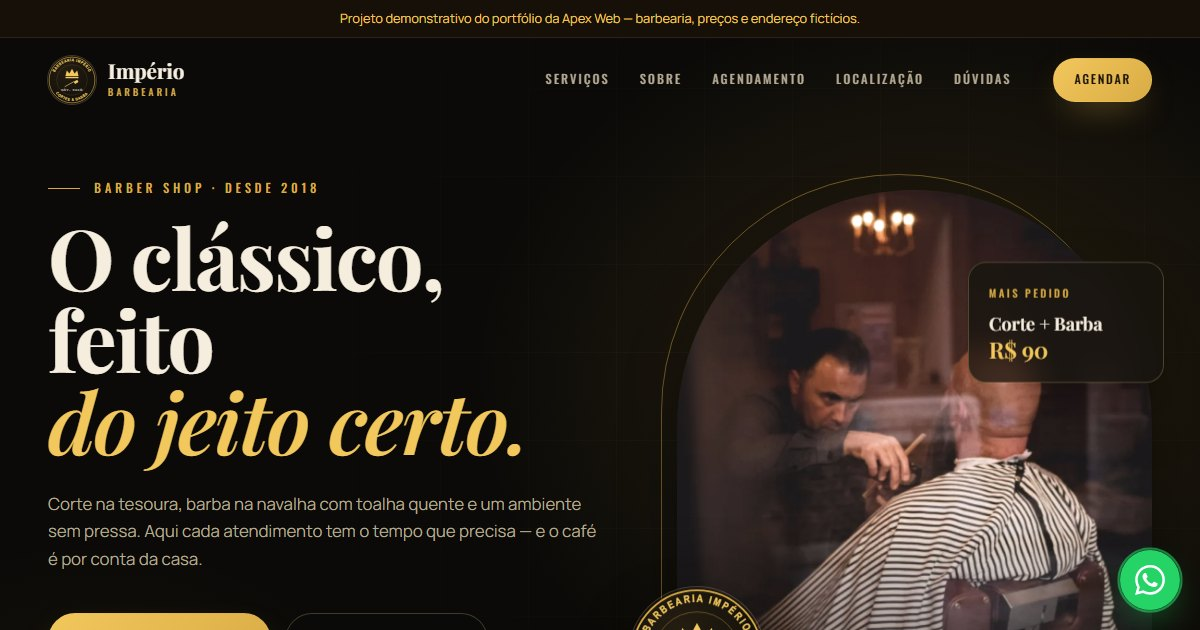
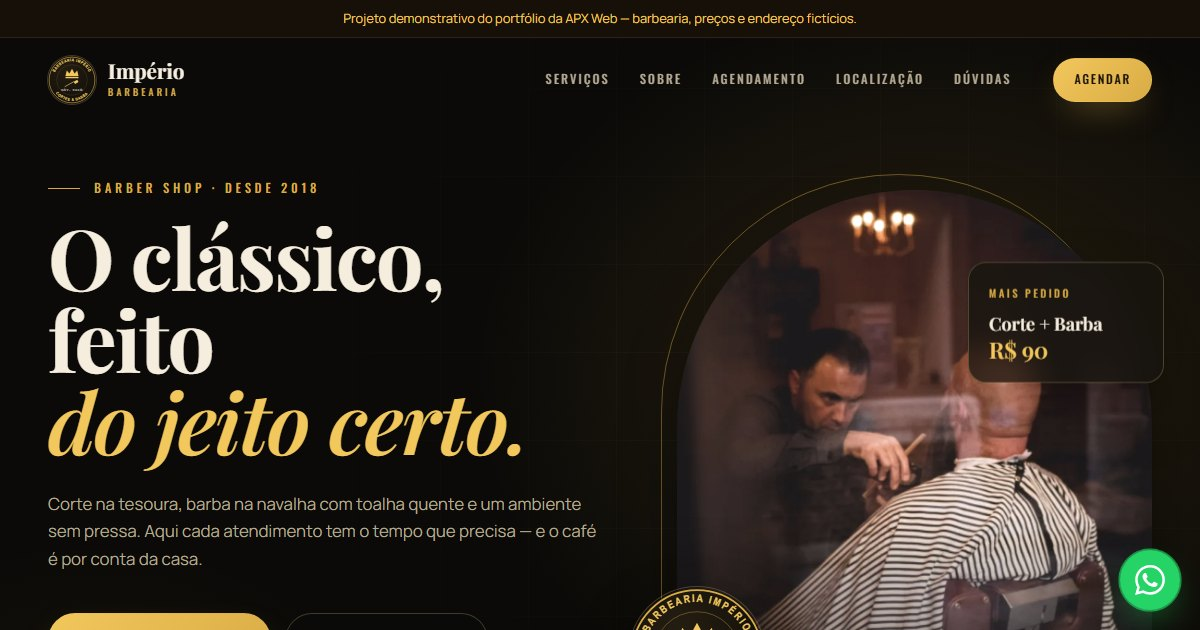
Renomear marca para APX Web e remover fundo quadriculado do topo
Troca Apex Web por APX Web nos textos do site e dos projetos do
portfolio, e no texto dentro do logo do topo e da imagem de
compartilhamento (letras originais reaproveitadas, so sem o E).
Remove o grid-overlay do hero.

Changed region(s): [[0.2775, 0.0, 0.7092, 0.0603]]

diff --git a/index.html b/index.html
@@ -3,17 +3,17 @@
 <head>
 <meta charset="UTF-8">
 <meta name="viewport" content="width=device-width, initial-scale=1.0">
-<title>Apex Web — Ideias que constroem o seu futuro</title>
-<meta name="description" content="Apex Web cria sites profissionais para pequenas empresas: agendamento, plataformas P2P, gestão de dados e catálogos.">
+<title>APX Web — Ideias que constroem o seu futuro</title>
+<meta name="description" content="APX Web cria sites profissionais para pequenas empresas: agendamento, plataformas P2P, gestão de dados e catálogos.">
 <link rel="icon" type="image/png" sizes="32x32" href="assets/img/favicon-32.png">
 <link rel="icon" type="image/png" sizes="16x16" href="assets/img/favicon-16.png">
 <link rel="apple-touch-icon" href="assets/img/apple-touch-icon.png">
 <meta property="og:type" content="website">
-<meta property="og:title" content="Apex Web — Ideias que constroem o seu futuro">
+<meta property="og:title" content="APX Web — Ideias que constroem o seu futuro">
 <meta property="og:description" content="Criamos sites profissionais para pequenas empresas: agendamento, plataformas P2P, gestão de dados e catálogos.">
 <meta property="og:image" content="assets/img/og-image.jpg">
 <meta name="twitter:card" content="summary_large_image">
-<meta name="twitter:title" content="Apex Web — Ideias que constroem o seu futuro">
+<meta name="twitter:title" content="APX Web — Ideias que constroem o seu futuro">
 <meta name="twitter:description" content="Criamos sites profissionais para pequenas empresas: agendamento, plataformas P2P, gestão de dados e catálogos.">
 <meta name="twitter:image" content="assets/img/og-image.jpg">
 <link rel="preconnect" href="https://fonts.googleapis.com">
@@ -28,7 +28,7 @@
 <header class="site-header" id="site-header">
   <nav class="container nav">
     <a href="#" class="nav-logo">
-      <img src="assets/img/logo-icon.png" alt="Apex Web">
+      <img src="assets/img/logo-icon.png" alt="APX Web">
     </a>
     <ul class="nav-links" id="nav-links">
       <li><a href="#quem-somos">Quem Somos</a></li>
@@ -50,7 +50,6 @@
     <div class="hero-bg" aria-hidden="true">
       <span class="blob blob-1"></span>
       <span class="blob blob-2"></span>
-      <span class="grid-overlay"></span>
     </div>
 
     <div class="hero-float hero-float-left" data-reveal data-delay="2">
@@ -91,7 +90,7 @@
     </div>
 
     <div class="container hero-content">
-      <img src="assets/img/logo-mark.png" alt="Apex Web" class="hero-logo" data-reveal>
+      <img src="assets/img/logo-mark.png" alt="APX Web" class="hero-logo" data-reveal>
       <h1 data-reveal data-delay="1">Ideias que constroem <span class="text-shine">o seu futuro</span></h1>
       <p class="hero-sub" data-reveal data-delay="2">Da ideia ao sucesso.</p>
       <div class="hero-actions" data-reveal data-delay="3">
@@ -112,7 +111,7 @@
       <span class="eyebrow" data-reveal>Quem Somos</span>
       <h2 data-reveal>Uma equipe jovem, focada em construir presença digital de verdade</h2>
       <p class="lead" data-reveal>
-        Somos a Apex Web: criamos sites profissionais para pequenas empresas que ainda não têm
+        Somos a APX Web: criamos sites profissionais para pequenas empresas que ainda não têm
         presença online. Unimos design limpo, tecnologia sólida e atenção aos detalhes para
         transformar negócios locais em marcas com presença digital de verdade.
       </p>
@@ -300,7 +299,7 @@
 
       <div class="testimonial-form-card" data-reveal data-delay="2">
         <h3>Deixe seu depoimento</h3>
-        <p class="testimonial-form-sub">É cliente da Apex Web? Conte como foi sua experiência — seu depoimento pode aparecer aqui no site.</p>
+        <p class="testimonial-form-sub">É cliente da APX Web? Conte como foi sua experiência — seu depoimento pode aparecer aqui no site.</p>
 
         <form id="testimonial-form" novalidate>
           <p class="bot-field-wrap"><label>Não preencha isto: <input name="bot-field" tabindex="-1" autocomplete="off"></label></p>
@@ -318,7 +317,7 @@
 
           <div class="form-field">
             <label for="testimonial-text">Seu depoimento</label>
-            <textarea id="testimonial-text" name="depoimento" rows="4" placeholder="Conte como foi trabalhar com a Apex Web" required></textarea>
+            <textarea id="testimonial-text" name="depoimento" rows="4" placeholder="Conte como foi trabalhar com a APX Web" required></textarea>
           </div>
 
           <p class="form-error" id="testimonial-error" hidden></p>
@@ -343,7 +342,7 @@
       <h2 data-reveal>Vamos conversar?</h2>
       <p data-reveal>Conte pra gente sobre o seu negócio e vamos pensar juntos na melhor forma de colocá-lo online.</p>
       <div class="hero-actions" data-reveal>
-        <a href="https://wa.me/5511944815707?text=Ol%C3%A1!%20Vi%20o%20site%20da%20Apex%20Web%20e%20quero%20saber%20mais." target="_blank" rel="noopener" class="btn btn-primary">Chamar no WhatsApp</a>
+        <a href="https://wa.me/5511944815707?text=Ol%C3%A1!%20Vi%20o%20site%20da%20APX%20Web%20e%20quero%20saber%20mais." target="_blank" rel="noopener" class="btn btn-primary">Chamar no WhatsApp</a>
         <a href="https://mail.google.com/mail/?view=cm&fs=1&to=ppsm2010@gmail.com" target="_blank" rel="noopener" class="btn btn-ghost">Enviar e-mail</a>
         <a href="https://www.instagram.com/apx_.web" target="_blank" rel="noopener" class="btn btn-ghost">Seguir no Instagram</a>
       </div>
@@ -354,13 +353,13 @@
 
 <footer class="site-footer">
   <div class="container footer-content">
-    <img src="assets/img/logo-icon.png" alt="Apex Web" class="footer-logo">
+    <img src="assets/img/logo-icon.png" alt="APX Web" class="footer-logo">
     <div class="footer-social">
       <a href="https://wa.me/5511944815707" target="_blank" rel="noopener">WhatsApp</a>
       <a href="https://mail.google.com/mail/?view=cm&fs=1&to=ppsm2010@gmail.com" target="_blank" rel="noopener">E-mail</a>
       <a href="https://www.instagram.com/apx_.web" target="_blank" rel="noopener">Instagram</a>
     </div>
-    <p>&copy; 2026 Apex Web. Ideias que constroem o seu futuro.</p>
+    <p>&copy; 2026 APX Web. Ideias que constroem o seu futuro.</p>
   </div>
 </footer>
 

diff --git a/portfolio-projects/barbearia/index.html b/portfolio-projects/barbearia/index.html
@@ -5,13 +5,13 @@
 <meta name="viewport" content="width=device-width, initial-scale=1.0">
 <script>document.documentElement.classList.add('js')</script>
 <title>Barbearia Império | Cortes clássicos e barba na navalha</title>
-<meta name="description" content="Projeto demonstrativo da Apex Web: site de barbearia com catálogo de serviços, preços, horários e agendamento online funcional.">
+<meta name="description" content="Projeto demonstrativo da APX Web: site de barbearia com catálogo de serviços, preços, horários e agendamento online funcional.">
 <meta name="theme-color" content="#0b0a08">
 <meta property="og:type" content="website">
 <meta property="og:locale" content="pt_BR">
 <meta property="og:site_name" content="Barbearia Império">
 <meta property="og:title" content="Barbearia Império | O clássico, feito do jeito certo">
-<meta property="og:description" content="Projeto demonstrativo da Apex Web: site de barbearia com agendamento online.">
+<meta property="og:description" content="Projeto demonstrativo da APX Web: site de barbearia com agendamento online.">
 <meta property="og:image" content="assets/img/og.jpg">
 <link rel="icon" href="assets/img/logo.svg" type="image/svg+xml">
 <link rel="preconnect" href="https://fonts.googleapis.com">
@@ -23,7 +23,7 @@
 </head>
 <body>
 
-<p class="proposal-note">Projeto demonstrativo do portfólio da Apex Web — barbearia, preços e endereço fictícios.</p>
+<p class="proposal-note">Projeto demonstrativo do portfólio da APX Web — barbearia, preços e endereço fictícios.</p>
 
 <a class="skip-link" href="#conteudo">Pular para o conteúdo</a>
 
@@ -432,7 +432,7 @@
             <a class="btn btn-line btn-sm" href="#" data-demo><svg class="icon" aria-hidden="true"><use href="#i-phone"/></svg>Ligar</a>
             <a class="btn btn-line btn-sm" href="#" data-demo><svg class="icon" aria-hidden="true"><use href="#i-instagram"/></svg>Instagram</a>
           </div>
-          <p class="visit-fineprint">Endereço e contatos fictícios — este é um projeto de demonstração da Apex Web.</p>
+          <p class="visit-fineprint">Endereço e contatos fictícios — este é um projeto de demonstração da APX Web.</p>
         </div>
         <div class="map-illustration reveal" style="--d:.08s" aria-hidden="true">
           <div class="map-grid"></div>
@@ -475,7 +475,7 @@
         </details>
         <details class="faq-item">
           <summary>Este site é de uma barbearia de verdade?<span class="faq-plus" aria-hidden="true"></span></summary>
-          <div class="faq-answer"><p>Não. A Barbearia Império é fictícia — este é um projeto de demonstração da <a href="../../index.html">Apex Web</a> para mostrar como funciona um site de barbearia com agendamento online.</p></div>
+          <div class="faq-answer"><p>Não. A Barbearia Império é fictícia — este é um projeto de demonstração da <a href="../../index.html">APX Web</a> para mostrar como funciona um site de barbearia com agendamento online.</p></div>
         </details>
       </div>
     </div>
@@ -503,7 +503,7 @@
           <img src="assets/img/logo.svg" alt="" width="48" height="48" loading="lazy">
           <span class="brand-text"><strong>Império</strong><span>Barbearia</span></span>
         </a>
-        <p>O clássico, feito do jeito certo. Projeto demonstrativo do portfólio da Apex Web.</p>
+        <p>O clássico, feito do jeito certo. Projeto demonstrativo do portfólio da APX Web.</p>
       </div>
       <div class="footer-col">
         <h4>Navegação</h4>
@@ -526,8 +526,8 @@
       </div>
     </div>
     <div class="footer-bottom">
-      <span>© 2026 Barbearia Império (fictícia). Projeto demonstrativo desenvolvido pela Apex Web.</span>
-      <span>Site por <a href="../../index.html">Apex Web</a></span>
+      <span>© 2026 Barbearia Império (fictícia). Projeto demonstrativo desenvolvido pela APX Web.</span>
+      <span>Site por <a href="../../index.html">APX Web</a></span>
     </div>
   </div>
 </footer>

diff --git a/script.js b/script.js
@@ -92,8 +92,8 @@
 
   // Formulário de depoimento: sem backend (GitHub Pages), então em vez de
   // guardar a resposta em algum servidor, montamos a mensagem e abrimos o
-  // WhatsApp da Apex Web já com ela pronta pra enviar.
-  const APEX_WHATSAPP = '5511944815707';
+  // WhatsApp da APX Web já com ela pronta pra enviar.
+  const APX_WHATSAPP = '5511944815707';
   const testimonialForm = document.getElementById('testimonial-form');
   if (testimonialForm) {
     testimonialForm.addEventListener('submit', (e) => {
@@ -114,11 +114,11 @@
         return;
       }
 
-      let mensagem = `Olá! Quero deixar um depoimento sobre a Apex Web:\n\nNome: ${nome}`;
+      let mensagem = `Olá! Quero deixar um depoimento sobre a APX Web:\n\nNome: ${nome}`;
       if (empresa) mensagem += `\nEmpresa: ${empresa}`;
       mensagem += `\nDepoimento: ${depoimento}`;
 
-      window.open(`https://wa.me/${APEX_WHATSAPP}?text=${encodeURIComponent(mensagem)}`, '_blank', 'noopener');
+      window.open(`https://wa.me/${APX_WHATSAPP}?text=${encodeURIComponent(mensagem)}`, '_blank', 'noopener');
 
       testimonialForm.hidden = true;
       document.getElementById('testimonial-success').hidden = false;

diff --git a/portfolio-projects/arcx-finance/index.html b/portfolio-projects/arcx-finance/index.html
@@ -578,7 +578,7 @@
       <p>ARCX Soluções Financeiras e Serviços Digitais Ltda — CNPJ 66.487.777/0001-30 — São Paulo, SP, Brasil</p>
       <p>Operações com criptomoedas envolvem riscos, incluindo variação de preço e riscos operacionais. A Arcx Finance não é banco, instituição financeira, corretora autorizada ou custodiante e não garante resultados. Consulte as condições antes de continuar.</p>
       <p>Serviço destinado apenas ao público legalmente elegível, maior de 18 anos e residente no Brasil.</p>
-      <p class="footer-copyright">© 2026 Arcx Finance. Todos os direitos reservados. Projeto demonstrativo desenvolvido pela Apex Web.</p>
+      <p class="footer-copyright">© 2026 Arcx Finance. Todos os direitos reservados. Projeto demonstrativo desenvolvido pela APX Web.</p>
     </div>
   </div>
 </footer>

diff --git a/portfolio-projects/psicologia/index.html b/portfolio-projects/psicologia/index.html
@@ -363,7 +363,7 @@
     <div class="footer-legal">
       <p>Dra. Beatriz Menezes — CRP 06/123456. Atendimento conforme o Código de Ética Profissional do Psicólogo.</p>
       <p>Em caso de emergência ou risco à vida, ligue 188 (CVV — Centro de Valorização da Vida, gratuito e 24h) ou procure o pronto-socorro mais próximo.</p>
-      <p class="footer-copyright">© 2026 Ânima Psicologia. Projeto demonstrativo desenvolvido pela Apex Web.</p>
+      <p class="footer-copyright">© 2026 Ânima Psicologia. Projeto demonstrativo desenvolvido pela APX Web.</p>
     </div>
   </div>
 </footer>

diff --git a/styles.css b/styles.css
@@ -345,16 +345,6 @@ h2 {
   animation-duration: 17s;
 }
 
-.grid-overlay {
-  position: absolute;
-  inset: 0;
-  background-image:
-    linear-gradient(rgba(255, 255, 255, 0.04) 1px, transparent 1px),
-    linear-gradient(90deg, rgba(255, 255, 255, 0.04) 1px, transparent 1px);
-  background-size: 48px 48px;
-  mask-image: radial-gradient(circle at 50% 30%, black, transparent 70%);
-}
-
 @keyframes float {
   0%, 100% { transform: translate(0, 0) scale(1); }
   50% { transform: translate(30px, -30px) scale(1.08); }
